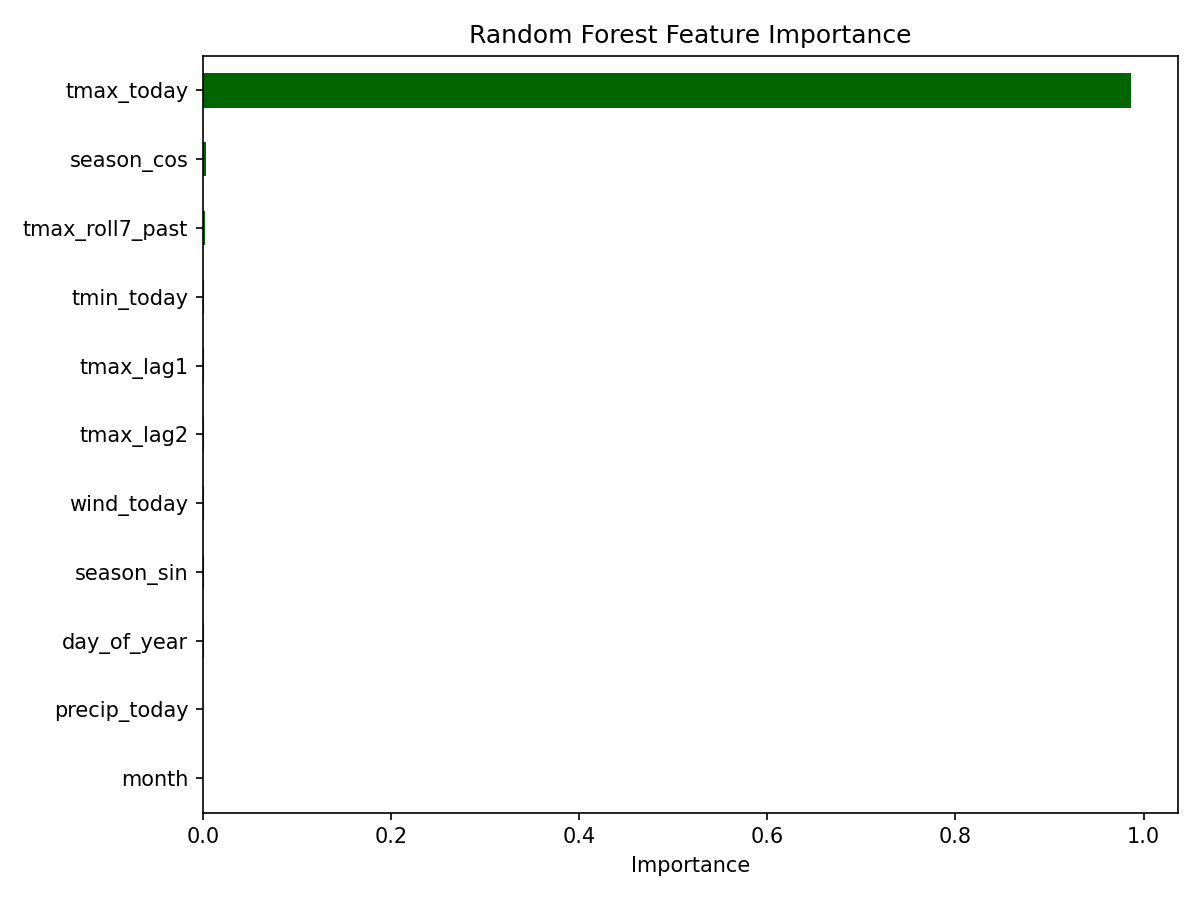
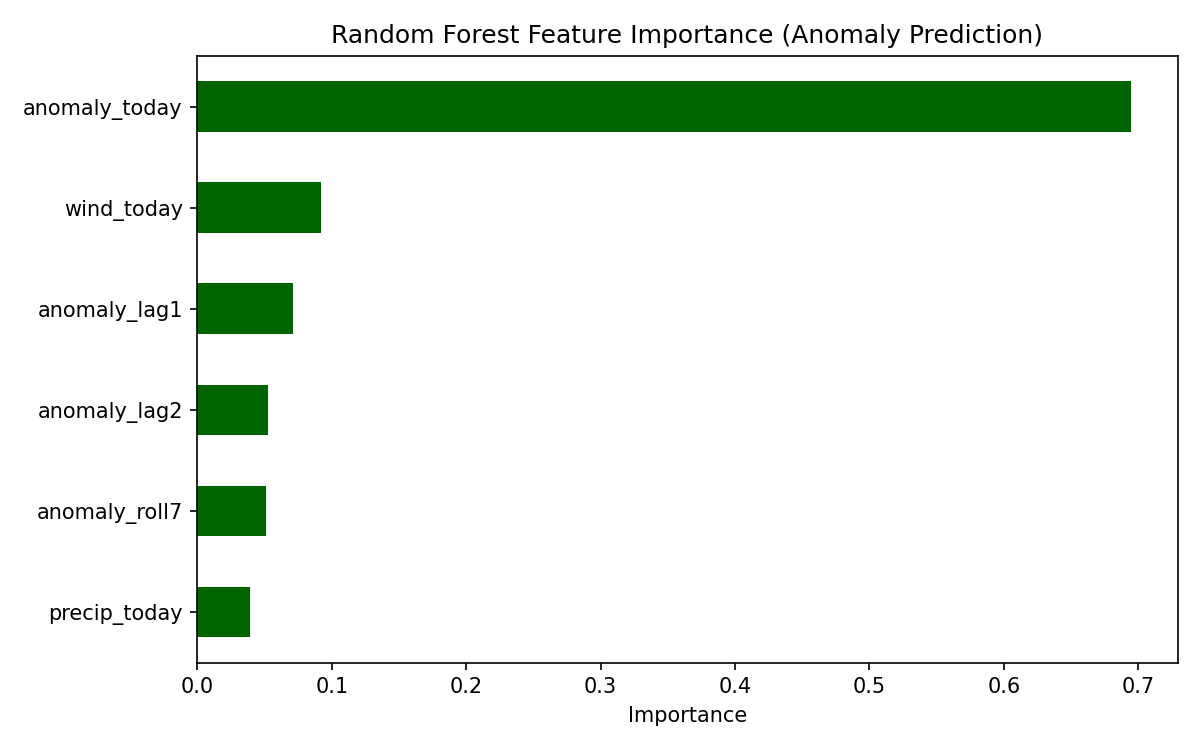
Predict temperature anomalies with Random Forest

Changed region(s): [[0.0, 0.0307, 0.9867, 0.9813]]

diff --git a/src/train_model.py b/src/train_model.py
@@ -1,11 +1,10 @@
-in model · PY
 """
 train_model.py
- 
+
 Trains a Random Forest regressor to predict tomorrow's temperature
 ANOMALY -- the deviation from the seasonal climatological norm -- rather
 than the raw temperature value.
- 
+
 Why anomaly, not raw temperature: predicting raw next-day tmax is
 dominated almost entirely by "today's temperature" (weather is highly
 autocorrelated), which makes for a fairly uninteresting model -- the
@@ -15,7 +14,7 @@ given how far today is from what's normal for this time of year, how
 far from normal will tomorrow be? That requires the model to actually
 reason about persistence of weather regimes rather than exploit the
 seasonal cycle directly.
- 
+
 Two baselines are compared against the Random Forest:
     1. Climatology baseline  -- predicts anomaly = 0 (i.e. "tomorrow
        will just be the seasonal normal"). This is the naive baseline
@@ -23,22 +22,22 @@ Two baselines are compared against the Random Forest:
     2. Persistence-of-anomaly baseline -- predicts tomorrow's anomaly
        equals today's anomaly (i.e. "today's unusual warmth/coolness
        carries over unchanged").
- 
+
 The seasonal climatology curve (a harmonic regression on season_sin /
 season_cos) is fit using ONLY the training set, then applied to both
 train and test, so the test set's climatology is never informed by
 test-period data -- this avoids a second, subtler form of leakage.
- 
+
 Uses a CHRONOLOGICAL train/test split (no shuffling), consistent with
 the rest of this pipeline.
- 
+
 Usage:
     python src/train_model.py --in data/processed/weather_features.csv --outdir images
 """
- 
+
 import argparse
 import os
- 
+
 import matplotlib
 matplotlib.use("Agg")
 import matplotlib.pyplot as plt
@@ -47,41 +46,41 @@ import pandas as pd
 from sklearn.ensemble import RandomForestRegressor
 from sklearn.linear_model import LinearRegression
 from sklearn.metrics import mean_absolute_error, r2_score
- 
+
 ANOMALY_FEATURE_COLS = [
     "anomaly_today", "anomaly_lag1", "anomaly_lag2", "anomaly_roll7",
     "precip_today", "wind_today",
 ]
- 
- 
+
+
 def chronological_split(df: pd.DataFrame, test_frac: float = 0.2):
     df = df.sort_values("date").reset_index(drop=True)
     split_idx = int(len(df) * (1 - test_frac))
     return df.iloc[:split_idx].copy(), df.iloc[split_idx:].copy()
- 
- 
+
+
 def seasonal_sin_cos(dates: pd.Series, shift_days: int = 0):
     shifted = dates + pd.to_timedelta(shift_days, unit="D")
     doy = shifted.dt.dayofyear
     return np.sin(2 * np.pi * doy / 365.25), np.cos(2 * np.pi * doy / 365.25)
- 
- 
+
+
 def add_anomaly_columns(df: pd.DataFrame, harmonic_model: LinearRegression):
     def seasonal_mean(sin_vals, cos_vals):
         X = np.column_stack([sin_vals, cos_vals])
         return harmonic_model.predict(X)
- 
+
     df["seasonal_mean_today"] = seasonal_mean(df["season_sin"], df["season_cos"])
- 
+
     sin_l1, cos_l1 = seasonal_sin_cos(df["date"], shift_days=-1)
     df["seasonal_mean_lag1"] = seasonal_mean(sin_l1, cos_l1)
- 
+
     sin_l2, cos_l2 = seasonal_sin_cos(df["date"], shift_days=-2)
     df["seasonal_mean_lag2"] = seasonal_mean(sin_l2, cos_l2)
- 
+
     sin_next, cos_next = seasonal_sin_cos(df["date"], shift_days=1)
     df["seasonal_mean_next"] = seasonal_mean(sin_next, cos_next)
- 
+
     df["anomaly_today"] = df["tmax_today"] - df["seasonal_mean_today"]
     df["anomaly_lag1"] = df["tmax_lag1"] - df["seasonal_mean_lag1"]
     df["anomaly_lag2"] = df["tmax_lag2"] - df["seasonal_mean_lag2"]
@@ -89,60 +88,60 @@ def add_anomaly_columns(df: pd.DataFrame, harmonic_model: LinearRegression):
     # reasonable approximation since the seasonal curve barely moves
     # over a 7-day window).
     df["anomaly_roll7"] = df["tmax_roll7_past"] - df["seasonal_mean_today"]
- 
+
     df["target_anomaly_next"] = df["target_tmax_next"] - df["seasonal_mean_next"]
     return df
- 
- 
+
+
 def main():
     parser = argparse.ArgumentParser(description="Train next-day temperature ANOMALY model vs. two baselines.")
     parser.add_argument("--in", dest="in_path", default="data/processed/weather_features.csv")
     parser.add_argument("--outdir", default="images")
     parser.add_argument("--test-frac", type=float, default=0.2)
     args = parser.parse_args()
- 
+
     df = pd.read_csv(args.in_path)
     df["date"] = pd.to_datetime(df["date"])
- 
+
     train, test = chronological_split(df, args.test_frac)
- 
+
     # --- Fit seasonal climatology curve on TRAIN ONLY ---
     harmonic = LinearRegression()
     harmonic.fit(train[["season_sin", "season_cos"]], train["tmax_today"])
- 
+
     train = add_anomaly_columns(train, harmonic)
     test = add_anomaly_columns(test, harmonic)
- 
+
     X_train, y_train = train[ANOMALY_FEATURE_COLS], train["target_anomaly_next"]
     X_test, y_test = test[ANOMALY_FEATURE_COLS], test["target_anomaly_next"]
- 
+
     # --- Baseline 1: climatology (predict anomaly = 0) ---
     climatology_pred = np.zeros(len(test))
     climatology_mae = mean_absolute_error(y_test, climatology_pred)
     climatology_r2 = r2_score(y_test, climatology_pred)
- 
+
     # --- Baseline 2: persistence of anomaly (tomorrow's anomaly = today's anomaly) ---
     persistence_pred = test["anomaly_today"].values
     persistence_mae = mean_absolute_error(y_test, persistence_pred)
     persistence_r2 = r2_score(y_test, persistence_pred)
- 
+
     # --- Random Forest on anomaly features ---
     model = RandomForestRegressor(n_estimators=300, max_depth=8, random_state=42, n_jobs=-1)
     model.fit(X_train, y_train)
     rf_pred = model.predict(X_test)
     rf_mae = mean_absolute_error(y_test, rf_pred)
     rf_r2 = r2_score(y_test, rf_pred)
- 
+
     print("\nModel comparison (held-out chronological test set, predicting TEMPERATURE ANOMALY)")
     print(f"{'Model':<28}{'MAE (C)':>10}{'R2':>10}")
     print(f"{'Climatology (anomaly=0)':<28}{climatology_mae:>10.3f}{climatology_r2:>10.3f}")
     print(f"{'Persistence of anomaly':<28}{persistence_mae:>10.3f}{persistence_r2:>10.3f}")
     print(f"{'Random Forest':<28}{rf_mae:>10.3f}{rf_r2:>10.3f}")
- 
+
     best_baseline_mae = min(climatology_mae, persistence_mae)
     improvement = (best_baseline_mae - rf_mae) / best_baseline_mae * 100
     print(f"\nRandom Forest reduces MAE vs. the better baseline by {improvement:.1f}%")
- 
+
     # --- Feature importance plot ---
     os.makedirs(args.outdir, exist_ok=True)
     importances = pd.Series(model.feature_importances_, index=ANOMALY_FEATURE_COLS).sort_values()
@@ -153,7 +152,7 @@ def main():
     plt.tight_layout()
     plt.savefig(os.path.join(args.outdir, "feature_importance.png"), dpi=150)
     plt.close()
- 
+
     # --- Predicted vs actual anomaly plot ---
     plt.figure(figsize=(7, 7))
     plt.scatter(y_test, rf_pred, alpha=0.3, s=10, label="Random Forest")
@@ -169,9 +168,9 @@ def main():
     plt.tight_layout()
     plt.savefig(os.path.join(args.outdir, "predictions_vs_actual.png"), dpi=150)
     plt.close()
- 
+
     print(f"\nSaved feature_importance.png and predictions_vs_actual.png to {args.outdir}/")
- 
- 
+
+
 if __name__ == "__main__":
     main()
